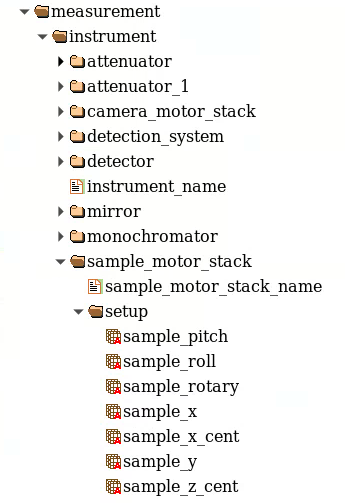
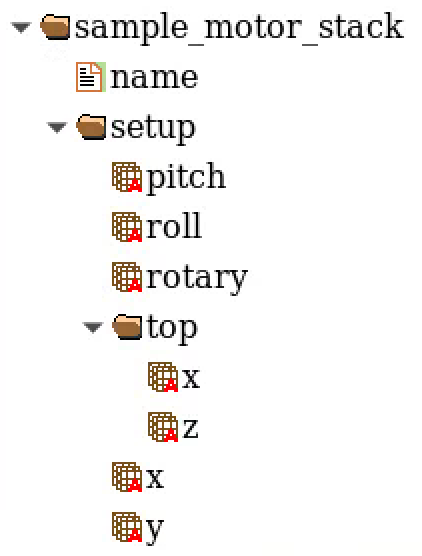
docs update

diff --git a/docs/source/usage.rst b/docs/source/usage.rst
@@ -1,7 +1,7 @@
 =====
 Usage
 =====
-
+ 
 1. Verify the dataset is valid
 ==============================
 
@@ -11,7 +11,7 @@ Tile needs the following experiment meta data to automatically sort the mosaic t
 #. the projection image pixel size in microns
 #. the tile data set full file name
 
-At the APS beamline 2-BM, these meta data are automatically stored at data collection time in an hdf file compliant with `dxfile <https://dxfile.readthedocs.io/en/latest/index.html>`_ following this layout:
+At the APS beamline `2 BM <https://docs2bm.readthedocs.io/en/latest/>`_, these meta data are automatically stored at data collection time in an hdf file compliant with `dxfile <https://dxfile.readthedocs.io/en/latest/index.html>`_ following this layout:
 
 
 .. image:: img/hdf_00.png
@@ -26,29 +26,31 @@ At the APS beamline 2-BM, these meta data are automatically stored at data colle
    :width: 200px
    :alt: project
 
-#. sample_x  (mm)         = '/measurement/instrument/sample_motor_stack/setup/sample_x'
-#. sample_y  (mm)         = '/measurement/instrument/sample_motor_stack/setup/sample_y'
+#. sample_x  (mm)         = '/measurement/instrument/sample_motor_stack/setup/x'
+#. sample_y  (mm)         = '/measurement/instrument/sample_motor_stack/setup/y'
 #. resolution (micron)    = '/measurement/instrument/detection_system/objective/resolution'
-#. full_file_name         = '/measurement/sample/full_file_name'
+#. full_file_name         = '/measurement/sample/file/full_name'
 
 
 If these parameters are stored somewhere else in your hdf file, you can set their locations at runtime using the 
 --sample-x, --sample-y, --resolution --full-file-name options. 
 
-#. --sample-x 'your_hdf_path_to_sample_x_in_mm'
-#. --sample-y 'your_hdf_path_to_sample_y_in_mm'
-#. --resolution 'your_hdf_path_to_image_resolution_in_micron'
-#. --full-file-name 'your_hdf_path_to_the_file_name'
+#. --sample-x '/your_hdf_path/to_sample_x_in_mm'
+#. --sample-y '/your_hdf_path/to_sample_y_in_mm'
+#. --resolution '/your_hdf_path/to_image_resolution_in_micron'
+#. --full-file-name '/your_hdf_path/to_the_full_file_name'
 
 
 By default, these are set to:
 
-#. --sample-x 'measurement_instrument_sample_motor_stack_setup_sample_x'
-#. --sample-y 'measurement_instrument_sample_motor_stack_setup_sample_y'
-#. --resolution 'measurement_instrument_detection_system_objective_resolution'
-#. --full-file-name 'measurement_sample_full_file_name'
+#. --sample-x '/measurement/instrument/sample_motor_stack/setup/x'
+#. --sample-y '/measurement/instrument/sample_motor_stack/setup/y'
+#. --resolution '/measurement/instrument/detection_system/objective/resolution'
+#. --full-file-name '/measurement/sample/file/full_name'
 
-to meet the `dxfile <https://dxfile.readthedocs.io/en/latest/index.html>`_ definition.
+to meet the `dxfile <https://dxfile.readthedocs.io/en/latest/source/demo/doc.areadetector.html#xml>`_ definitions for 
+beamlines `2 BM <https://docs2bm.readthedocs.io/en/latest/>`_ , `7 BM <https://docs7bm.readthedocs.io/en/latest/>`_ 
+and `32 ID <https://docs32id.readthedocs.io/en/latest/>`_.
 
 Once the above are confirmed, you can validate the mosaic data set with:
 ::
